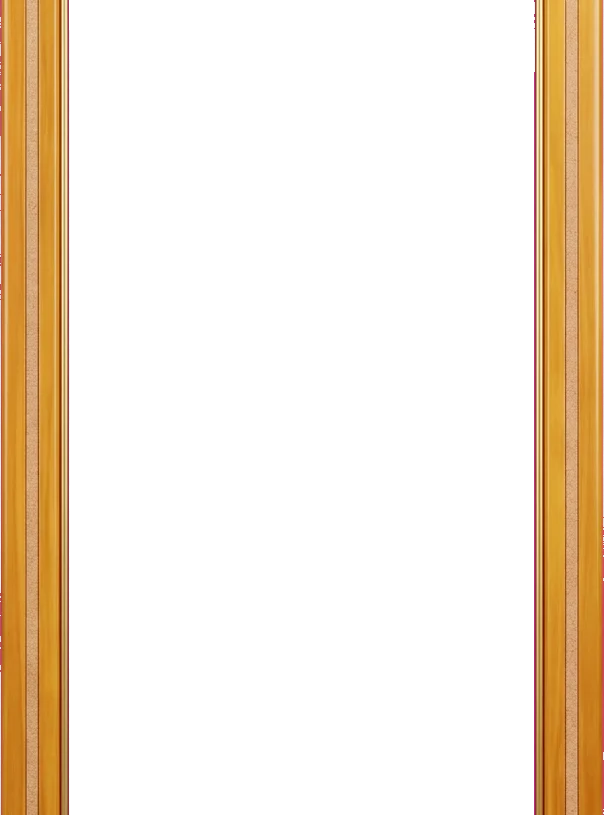
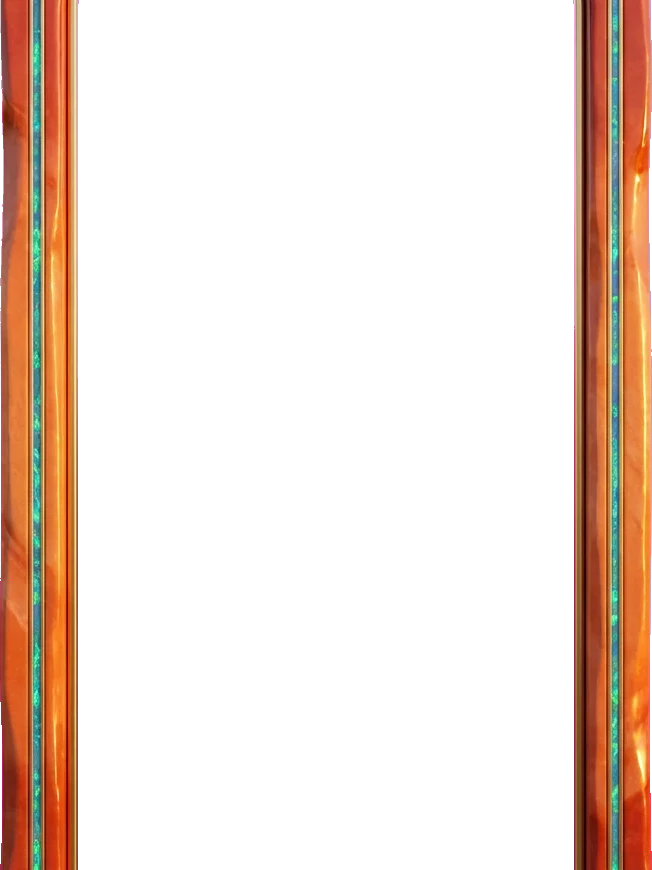
2.2: Sydney border repainted (outback sandstone + opal, kangaroo sunset topper, Southern Cross base); frame bars line up with the card edges
Claude-Session: https://claude.ai/code/session_01EnXvJ6P6HcGRxjBSnYPdAU

Changed region(s): [[0.8642, 0.0, 1.0, 1.0], [0.0, 0.0, 0.1192, 1.0]]

diff --git a/www/assets/v22.js b/www/assets/v22.js
@@ -69,7 +69,7 @@
     rivalFace(v === 'me' ? 'me' : +v, k).then(u => { if (u) el.style.backgroundImage = `url(${u})`; }); });
 
   // ── 2. FINALS: a full league bar unlocks that league's Final; winning it lifts the cup and opens the next league
-  const FRAMES = new Set([6, 16]), BADGES = new Set([6, 16]), FDIM = { 6: [0.2616, 0.2616], 16: [0.2241, 0.2241] };
+  const FRAMES = new Set([6, 16]), BADGES = new Set([6, 16]), FDIM = { 6: [0.3037, 0.2653], 16: [0.2241, 0.2241] };
   function F() { const f = sec('finals'); if (!f.won) { f.won = {}; f.ready = {}; const hi = highestLeagueIdx(); for (let i = 1; i < hi; i++) f.won[i] = 1; save(); } return f; }
   const finalWon = i => !!F().won[i], finalReady = i => !!F().ready[i] && !F().won[i];
   const cupsWon = () => Object.keys(F().won).filter(k => +k >= 1).length;
@@ -293,7 +293,7 @@
   @media (max-height:620px){.tcard.pt{--ph:84}.tcard.pt .v2prz .row:last-child{display:none}.tcard.pt .v2prz h5:nth-of-type(2){display:none}}
   #v2deck .v2pz2 .row span{font-size:12.5px}#v2deck .v2pz2 h5{font-size:11px;white-space:nowrap;letter-spacing:.03em}#v2deck .v2pz2 .row img{height:25px}#v2deck .v2pz2 em{font-size:12px}
   .tcard.pt.tf::after{border:0!important;border-image:none!important;--fw:calc(100cqw + 2 * var(--pad,22px));background:var(--ft) center top/100% auto no-repeat,var(--fb) center bottom/100% auto no-repeat,var(--fm) center calc(var(--fw) * var(--fr1))/100% calc(100% - var(--fw) * (var(--fr1) + var(--fr2))) no-repeat}
-  .tcard.pt.tf{overflow:visible}.tcard.pt.tf::after{top:calc(var(--fw) * -.06);bottom:calc(var(--fw) * -.06)}.tcard.pt.tf{padding-bottom:34px}.tcard.pt.tf[data-lg="6"]{--pad:36px}.tcard.pt.tf[data-lg="16"]{--pad:31px}.v2go.gold{white-space:nowrap;font-size:clamp(14px,4.6vw,20px);padding:0 6px}.v2go.gold img{height:20px}
+  .tcard.pt.tf{overflow:visible}.tcard.pt.tf::after{top:calc(var(--fw) * var(--ftop,-.06) + 3px);bottom:calc(var(--fw) * var(--fbot,-.06) + 3px)}.tcard.pt.tf{padding-bottom:34px}.tcard.pt.tf[data-lg="6"]{--pad:35px;--ftop:-.14;--fbot:-.035}.tcard.pt.tf[data-lg="16"]{--pad:31px;--ftop:-.102;--fbot:-.03}.v2go.gold{white-space:nowrap;font-size:clamp(14px,4.6vw,20px);padding:0 6px}.v2go.gold img{height:20px}
   @media (max-height:760px){.tcard.pt{padding-bottom:20px}.tcard.pt .ban.bimg{width:60%}.tcard.pt .rib{display:none}.tcard.pt .v2tgt{font-size:12px}.tcard.pt .v2prz .row img{height:24px}#v2deck .v2rail{padding-top:6px}.tcard.pt .crest{margin-top:-16px}.tcard.pt .v2road{display:none}.tcard{gap:6px}.tcard .hero{height:104px}.tcard .crest{margin-top:-50px}.tcard .v2road{padding:3px 8px}.tcard .v2road .tx small{display:none}.tcard .v2face{width:34px;height:34px}.v2prz h5{margin:0 0 2px}.v2prz .row img{height:26px}.v2go{height:46px;font-size:20px}.tcard .crest .cup{height:72px}.mcard .post{display:none}.mcard .ico{height:64px}.mcard h4{font-size:28px}.v2rail{padding-top:48px}}`;
   document.head.appendChild(css);
 
